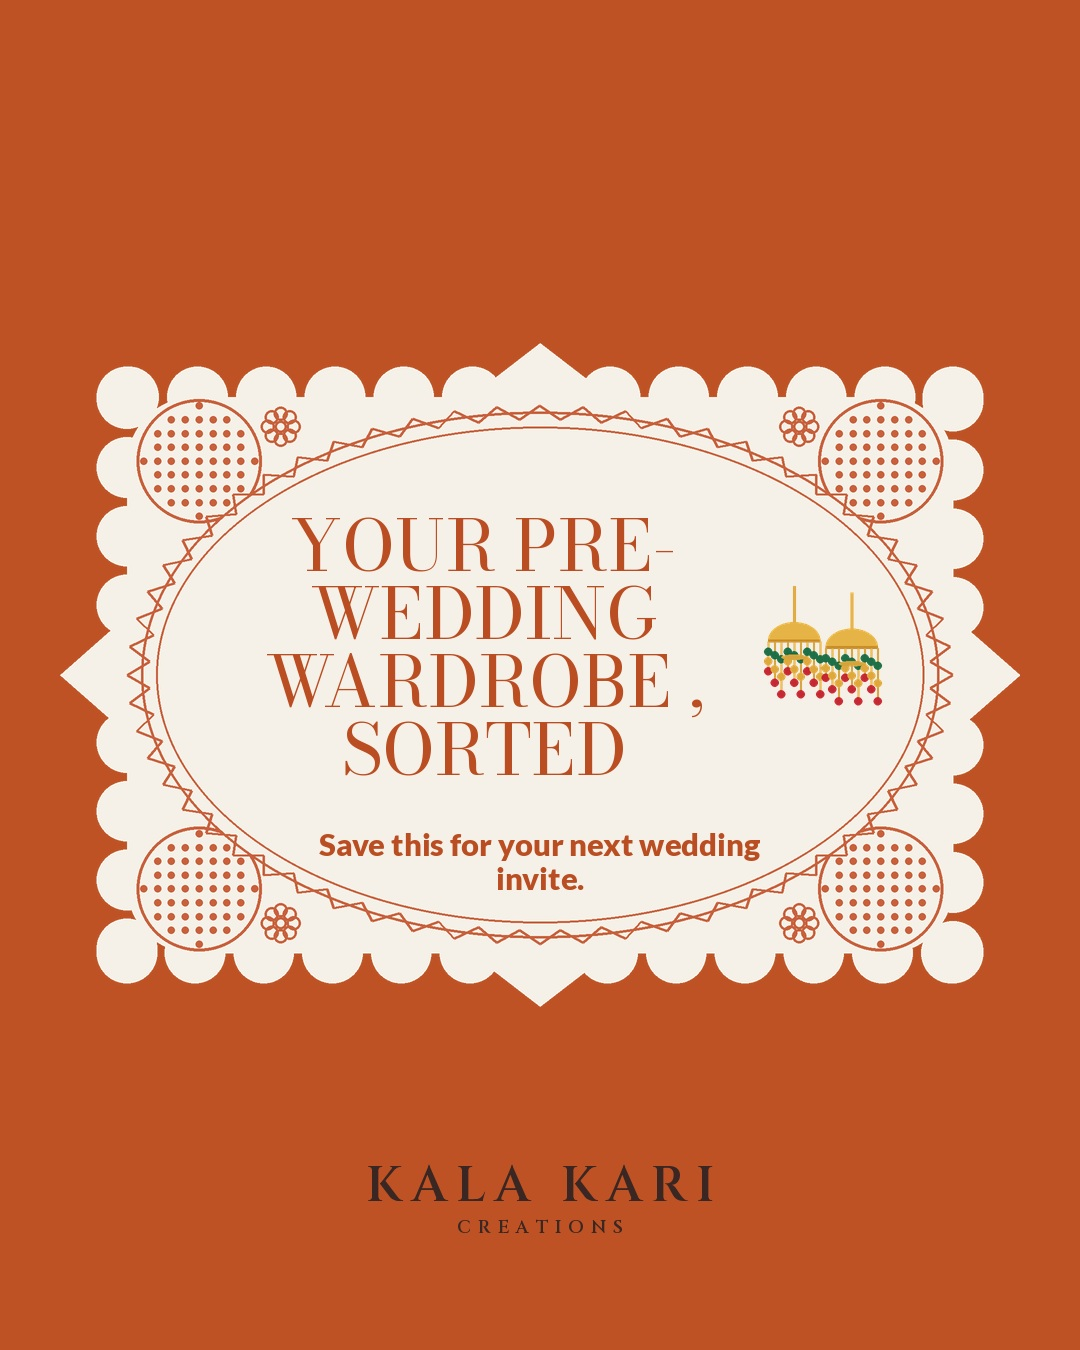
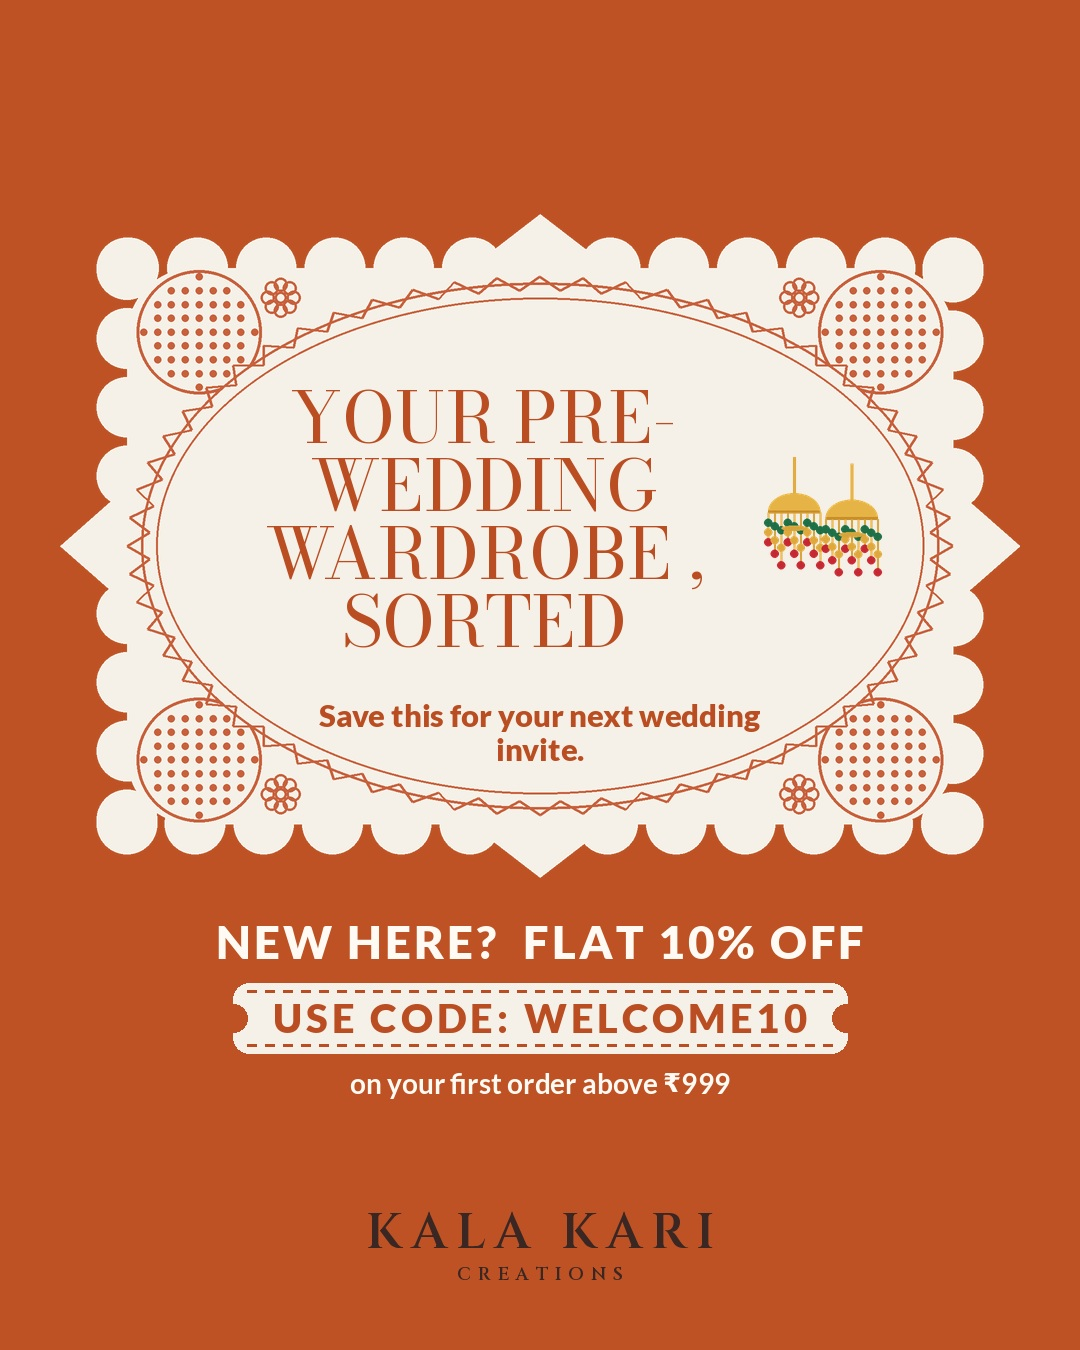
Bridesmaid co-ords carousel: add the WELCOME10 offer to the final slide
Claude-Session: https://claude.ai/code/session_01LZv7UTnsZcwjx4RXmrtg3u

Changed region(s): [[0.0611, 0.1556, 0.9472, 0.8089], [0.5194, 0.84, 0.6722, 0.9644], [0.3361, 0.8711, 0.4889, 0.9644]]

diff --git a/marketing/posts/bridesmaid_coords_carousel.py b/marketing/posts/bridesmaid_coords_carousel.py
@@ -490,15 +490,15 @@ def brand(im, y, colour=BRAND):
     tracked(d, (W / 2 - tw2 / 2, y + 32), t2, f2, colour + (255,), 7)
 
 
-def framed_text(im, lines, sub, sub_font, deco, tint, deco_side):
+def framed_text(im, lines, sub, sub_font, deco, tint, deco_side, cy=0.5):
     fw, fh = 960, 690
     fr = frame(fw, fh, tint)
-    x0, y0 = (W - fw) // 2, int(H * 0.5 - fh / 2)
+    x0, y0 = (W - fw) // 2, int(H * cy - fh / 2)
     im.alpha_composite(fr, (x0, y0))
     d = ImageDraw.Draw(im)
     f = font("bodoni-moda", 400, 78 if len(lines) == 3 else 70)
     pitch = 90 if len(lines) == 3 else 68
-    ty = H * 0.5 - pitch * (len(lines)) / 2 - 22
+    ty = H * cy - pitch * (len(lines)) / 2 - 22
     for k, ln in enumerate(lines):
         d.text((W / 2 - (56 if deco_side == "r" else 0), ty + k * pitch), ln, font=f, fill=RUST + (255,), anchor="mt")
     d.text((W / 2, ty + len(lines) * pitch + 26), sub, font=sub_font, fill=(80, 60, 52, 255) if deco_side != "r"
@@ -526,14 +526,44 @@ def slide_cover(photo):
 def slide_end():
     im = Image.new("RGBA", (W, H), ORANGE + (255,))
     lines = ["YOUR PRE-", "WEDDING", "WARDROBE ,", "SORTED"]
-    x0, y0, fw, fh = framed_text(im, lines, "", font("lato", 900, 28), None, (200, 96, 60), "r")
+    cy = 0.405                                 # the frame sits higher to leave room for the welcome offer
+    x0, y0, fw, fh = framed_text(im, lines, "", font("lato", 900, 28), None, (200, 96, 60), "r", cy)
     d = ImageDraw.Draw(im)
     f = font("lato", 900, 31)
     d.text((W / 2, y0 + fh * 0.745), "Save this for your next wedding", font=f, fill=RUST + (255,), anchor="mm")
     d.text((W / 2, y0 + fh * 0.745 + 34), "invite.", font=f, fill=RUST + (255,), anchor="mm")
-    im.alpha_composite(ill_kaleere(130, 165), (x0 + fw - 262, int(H / 2) - 92))
-    brand(im, int(H * 0.89))
+    im.alpha_composite(ill_kaleere(130, 165), (x0 + fw - 262, int(H * cy) - 92))
+    welcome_offer(im, y0 + fh + 22)
+    brand(im, int(H * 0.925))
     return im
+
+
+def welcome_offer(im, top):
+    """The WELCOME10 offer: a white caps line, a cream ticket with the code, and the conditions."""
+    d = ImageDraw.Draw(im)
+    f1 = font("lato", 900, 46)
+    line = "NEW HERE?  FLAT 10% OFF"
+    tw = sum(d.textlength(c, font=f1) + 3 for c in line) - 3
+    tracked(d, (W / 2 - tw / 2, top + 46), line, f1, (255, 250, 244, 255), 3)
+    f2 = font("lato", 900, 40)
+    code = "USE CODE: WELCOME10"
+    cw = sum(d.textlength(c, font=f2) + 4 for c in code) - 4
+    bx0, by0, bx1, by1 = W / 2 - cw / 2 - 40, top + 70, W / 2 + cw / 2 + 40, top + 140
+    d.rounded_rectangle((bx0, by0, bx1, by1), radius=16, fill=CREAM + (255,))
+    for x in np.arange(bx0 + 14, bx1 - 14, 18):           # dashed ticket edge
+        d.line([(x, by0 + 8), (x + 9, by0 + 8)], fill=RUST + (255,), width=3)
+        d.line([(x, by1 - 8), (x + 9, by1 - 8)], fill=RUST + (255,), width=3)
+    for cx in (bx0, bx1):                                  # ticket notches
+        d.ellipse((cx - 14, (by0 + by1) / 2 - 14, cx + 14, (by0 + by1) / 2 + 14), fill=ORANGE + (255,))
+    tracked(d, (W / 2 - cw / 2, by0 + 50), code, f2, RUST + (255,), 4)
+    f3 = font("lato", 700, 28)
+    fr = ImageFont.truetype("/usr/share/fonts/truetype/dejavu/DejaVuSans-Bold.ttf", 26)   # Lato has no \u20b9
+    a, b = "on your first order above ", "999"
+    wa, wr, wb = d.textlength(a, font=f3), d.textlength("\u20b9", font=fr), d.textlength(b, font=f3)
+    x = W / 2 - (wa + wr + wb) / 2
+    for txt, ff, w_ in ((a, f3, wa), ("\u20b9", fr, wr), (b, f3, wb)):
+        d.text((x, by1 + 30), txt, font=ff, fill=(255, 250, 244, 255), anchor="lm")
+        x += w_
 
 
 def slide_product(src, cut, side, words, ill, box, ty):
